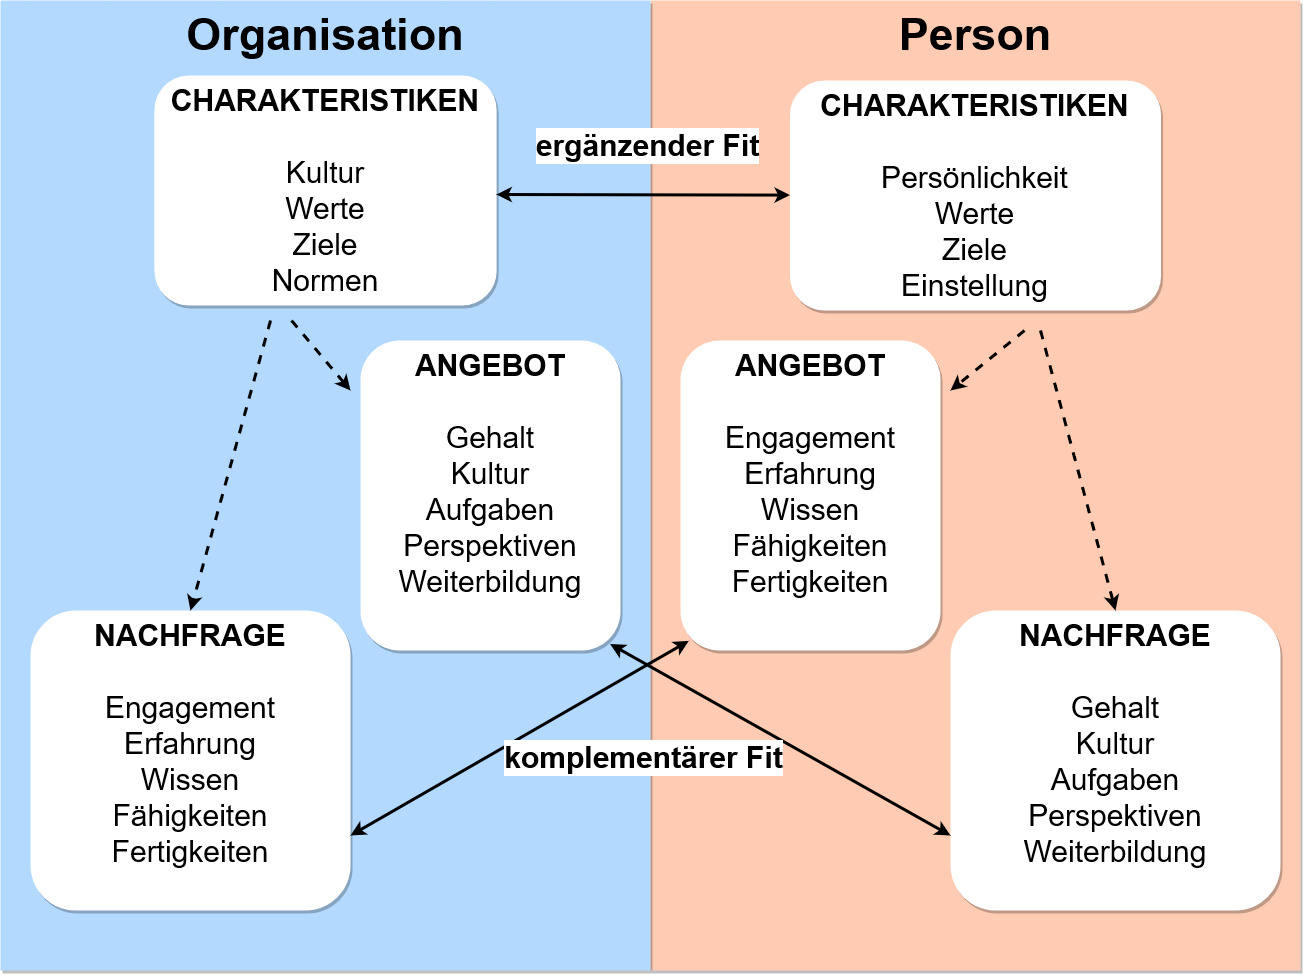
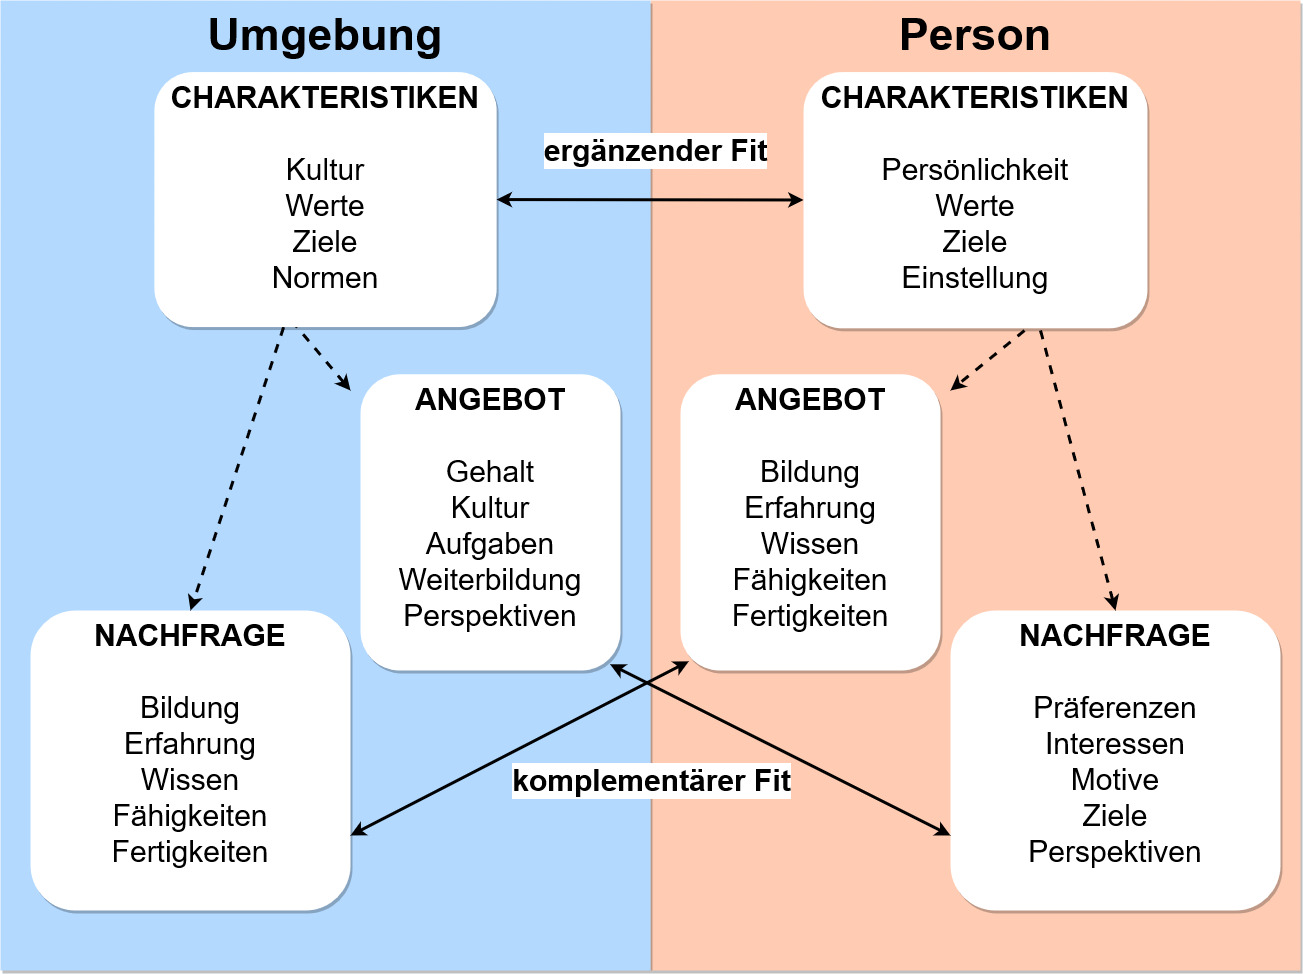
wip

diff --git a/chapters/personEnvironmentFit.tex b/chapters/personEnvironmentFit.tex
@@ -6,7 +6,7 @@
 \label{ch:personEnvironmentFit:einfuehrung}
 Der \acf{PEFit} \cite[S. 428]{dawis:2002} ist ein Konzept, welches häufig im Kontext der Berufs- und Organisationspsychologie Anwendung findet \cite[S. 2]{guan:2021}. In manchen Publikationen existiert die Theorie auch unter ähnlichen Bezeichnungen mit derselben Bedeutung wie Person-Environment Match \cite[S. 2]{player:2017}, -Korrespondenz \cite[S. 1]{eggerth:2008} oder -Kongruenz \cite[S. 1]{muchinsky:1987}. Es enthält stets drei zentrale Größen: Person, Umgebung (Environment) und Ergebnis \cite[S. 2f.]{livingstone:1997}.
 
-\textcite[S. 5]{edwards:2007} stellten fest, dass die Literatur unter der Person ein menschliches Individuum versteht. Umgebung und Ergebnis interpretierten verschiedene Publikation ihren Beobachtungen zu Folge dagegen als breite Terminologien. Diese werden je nach Forschungsdomäne genauer spezifiziert. Beispiele für Ergebnisse sind Zufriedenheit \cite[S. 1]{lashani:2021}, Wechselbereitschaft \cite[S. 1]{amarneh:2021}, Kreativität \cite[S. 1]{duan:2019}, Leistung \cite[S. 7f.]{elfenbein:2007} und  Berufswahl \cite[S. 1]{cable:1996}. Als Umgebung untersuchten verschiedene Publikationen unter anderem Unternehmen \cite[S. 1]{kristof:1996}, Gruppen \cite[S. 1]{werbel:2001} und Arbeitsplätze \cite[S. 1]{lu:2014}.
+\textcite[S. 5]{edwards:2007} stellten fest, dass die Literatur unter der Person ein menschliches Individuum versteht. Umgebung und Ergebnis interpretieren verschiedene Publikation ihren Beobachtungen zu Folge dagegen als breite Terminologien. Diese werden je nach Forschungsdomäne genauer spezifiziert. Beispiele für Ergebnisse sind Zufriedenheit \cite[S. 1]{lashani:2021}, Wechselbereitschaft \cite[S. 1]{amarneh:2021}, Kreativität \cite[S. 1]{duan:2019}, Leistung \cite[S. 7f.]{elfenbein:2007} und  Berufswahl \cite[S. 1]{cable:1996}. Als Umgebung untersuchten verschiedene Publikationen unter anderem Unternehmen \cite[S. 1]{kristof:1996}, Gruppen \cite[S. 1]{werbel:2001} und Arbeitsplätze \cite[S. 1]{lu:2014}.
 
 Die Wissenschaft geht davon aus, dass ein Ergebnis stets vom Zusammenspiel von Person und Umgebung abhängig ist und nicht durch eine der beiden Größen alleine bestimmt wird \cite[S. 1]{muchinsky:1987}. Wie in Abbildung \ref{fig:personEnvironmentFit:einfuehrung:abb1} verdeutlicht, ist der Fit somit selbst kein Ergebnis, sondern eine unabhängige Variable, welche zur Bestimmung eines untersuchten Resultates herangezogen wird \cite[S. 4f.]{edwards:1991}.
 
@@ -21,7 +21,7 @@ Der in Abbildung \ref{fig:personEnvironmentFit:einfuehrung:abb1} dargestellte \a
 
 \textcite[S. 6f.]{edwards:2007} unterschieden drei Ebenen, auf welchen ein Fit bestimmbar ist. Die Oberste bezeichneten sie als globale Ebene. Hier werden Person und Umgebung meist als Ganzes ohne weitere Untergliederungen miteinander vergleichen. Von der Domänen-Ebene sprachen \textcite[S. 7f.]{edwards:2007}, wenn eine Einteilung in mehrere sehr breite Bereiche vorgenommen wird, welche stellvertretend für Person bzw. Umgebung miteinander vergleichen werden. Domänen können den Autoren zu Folge beispielsweise Werte, Persönlichkeit oder Ziele sein. Findet die Untersuchung ausschließlich innerhalb einer Domäne statt, bezeichneten \textcite[S. 7f.]{edwards:2007} dies als Facetten-Ebene. Als Beispiel nannten sie die Bestimmung eines \acp{PEFit} hinsichtlich demographischer Ähnlichkeit anhand von Dimensionen wie Alter und Bildung.
 
-Wie die Kongruenz von Person und Umgebung berechnet wird, ist von der konkreten Art des Fits abhängig. \textcite[S. 1]{muchinsky:1987} unterschieden dabei zwischen ergänzendem und komplementären Fit.
+Wie die Kongruenz von Person und Umgebung berechnet wird, ist von der konkreten Art des Fits abhängig. \textcite[S. 1]{muchinsky:1987} unterschieden dabei zwischen ergänzendem und komplementärem Fit.
 
 \section{Ergänzender und komplementärer Fit}
 \label{ch:personEnvironmentFit:supplementaryUndComplementary}
@@ -36,14 +36,13 @@ Die komplementäre Kongruenz wird, wie in Abbildung \ref{fig:personEnvironmentFi
 \begin{figure}[h]
 	\centering
 	\includegraphics[width=1\textwidth]{gfx/supplementaryComplementaryFit.jpg}
-	\caption[Ergänzender und komplementärer \acs{PEFit}]{Ergänzender und komplementärer \acs{PEFit}\\
-		(Eigene Darstellung in Anlehnung an \cite[S. 4]{kristof:1996})}
+	\caption[Ergänzender und komplementärer \acs{PEFit}]{Ergänzender und komplementärer \acs{PEFit} (Eigene Darstellung in Anlehnung an \cite[S. 4]{kristof:1996})}
 	\label{fig:personEnvironmentFit:supplementaryUndComplementary:abb1}
 \end{figure}
 
-Unter der Nachfrage der Umgebung werden die in Abbildung \ref{fig:personEnvironmentFit:supplementaryUndComplementary:abb1} dargestellten Anforderungen an die Person zusammengefasst. Hierzu zählen beispielsweise Rollen- und Leistungserwartungen. Das entsprechende Angebot der Person sind ihre Fähigkeiten. Diese umfassen unter anderem Fertigkeiten, Wissen, Bildung und Arbeitserfahrung. Gleichen sich Nachfrage der Umgebung und Angebot der Person gegenseitig aus, entsteht der Anforderungen-Fähigkeiten Fit. Dieser resultiert in einer hohen Leistung und Effizienz von Individuum und Umgebung \cite[S. 3f.]{edwards:1991}\cite[S. 5]{edwards:1996}\cite[S. 4f.]{edwards:2007}\cite[S. 6]{su:2015}.
+Unter der in Abbildung \ref{fig:personEnvironmentFit:supplementaryUndComplementary:abb1} dargestellten Nachfrage der Umgebung werden Anforderungen an die Person zusammengefasst. Hierzu zählen beispielsweise Rollen- und Leistungserwartungen. Das entsprechende Angebot der Person umfasst entsprechend beispielsweise Fähigkeiten, Fertigkeiten, Wissen, Bildung und Arbeitserfahrung. Gleichen sich Nachfrage der Umgebung und Angebot der Person gegenseitig aus, entsteht der Anforderungen-Fähigkeiten Fit. Dieser resultiert in einer hohen Leistung und Effizienz von Individuum und Umgebung \cite[S. 3f.]{edwards:1991}\cite[S. 5]{edwards:1996}\cite[S. 4f.]{edwards:2007}\cite[S. 6]{su:2015}.
 
-Die Nachfrage der Person entspricht ihren psychologischen Bedürfnissen. Dazu zählen persönliche Präferenzen, Interessen, Motive und Ziele. Die entsprechenden Angebote der Umgebung umfassen Ressourcen und Belohnungen wie Gehalt und Mitbestimmungsrechte, welche die Bedürfnisse des Individuums befriedigen. Sind Nachfrage der Person und Angebote der Umgebung gleich stark ausgeprägt, wird dies in der Literatur als Bedürfnisse-Angebote Fit bezeichnet. Dieser resultiert in einem hohen Wohlbefinden des Mitarbeiters, welches sich beispielsweise in Zufriedenheit und verminderter Wechselbereitschaft äußert \cite[S. 2]{edwards:2004}\cite[S. 2f.]{edwards:1996}\cite[S. 4]{edwards:2008}\cite[S. 4f.]{edwards:2007}\cite[S. 6]{su:2015}.
+Die Nachfrage der Person in Abbildung \ref{fig:personEnvironmentFit:supplementaryUndComplementary:abb1} entspricht ihren psychologischen Bedürfnissen. Dazu zählen persönliche Präferenzen, Interessen, Motive und Ziele. Die entsprechenden Angebote der Umgebung umfasst Ressourcen und Belohnungen wie Gehalt und Mitbestimmungsrechte, welche die Bedürfnisse des Individuums befriedigen. Sind Nachfrage der Person und Angebote der Umgebung gleich stark ausgeprägt, wird dies in der Literatur als Bedürfnisse-Angebote Fit bezeichnet. Dieser resultiert in einem hohen Wohlbefinden des Mitarbeiters, welches sich beispielsweise in Zufriedenheit und verminderter Wechselbereitschaft äußert \cite[S. 2]{edwards:2004}\cite[S. 2f.]{edwards:1996}\cite[S. 4]{edwards:2008}\cite[S. 4f.]{edwards:2007}\cite[S. 6]{su:2015}.
 
 Laut \textcite[S. 9ff.]{workAdjustment:1964} führen unausgeglichene Nachfragen langfristig zu einem Wechsel des Arbeitsplatzes. Die Autoren betrachteten die aus unzureichend erfüllten Anforderungen des Unternehmens entstehende mangelnde Arbeitsleistung als Ursache für Kündigung oder Versetzung des Mitarbeiters seitens des Arbeitgebers. Die Unzufriedenheit, welche aus unzureichend erfüllten Bedürfnissen des Angestellten resultiert, bezeichneten die Wissenschaftler als einen Wechselgrund seitens des Mitarbeiters.
 

diff --git a/chapters/einleitung.tex b/chapters/einleitung.tex
@@ -17,9 +17,9 @@ Das Ziel der vorliegenden Master-Thesis besteht darin, die folgende Forschungsfr
 
 \forschungsfrage
 
-Um diese Frage zu beantworten, wird ein Experiment mit einer anschließenden Fallstudie durchgeführt. Dabei werden Mitarbeiter eines Beratungsunternehmens im IT-Bereich sowohl von einem unilateralen als auch von einem bilateralen Empfehlungsverfahren für verschiedene Projektpositionen vorgeschlagen. Anschließend wird evaluiert, ob die verantwortlichen Projektmanager von den empfohlenen Angestellten der bilateralen Anwendung eine höhere Arbeitsleistung erwarten als von den Vorschlägen des unilateralen Systems. Außerdem wird überprüft, ob die Mitarbeiter zufriedener mit ihrer Positionierung in den Vorschlägen der bilateralen Anwendung sind.
+Um diese Frage zu beantworten, wird ein Experiment mit einer anschließenden Fallstudie durchgeführt. Dabei werden Mitarbeiter eines Beratungsunternehmens im IT-Bereich sowohl von einem uni- als auch von einem bilateralen Empfehlungsverfahren für verschiedene Projektpositionen vorgeschlagen. Anschließend wird evaluiert, ob die verantwortlichen Projektmanager von den empfohlenen Angestellten der bilateralen Anwendung eine höhere Arbeitsleistung erwarten, als von den Vorschlägen des unilateralen Systems. Außerdem wird überprüft, ob die Mitarbeiter zufriedener mit ihrer Positionierung in den Vorschlägen der bilateralen Anwendung sind.
 
 \section{Gang der Arbeit}
 \label{sec:intro:gangDerArbeit}
-Um die Forschungsfrage der vorliegenden Master-Thesis zu beantworten, werden in den Kapiteln \ref{ch:personEnvironmentFit} und \ref{ch:empfehlungssysteme} zunächst die theoretischen Grundlagen bilateraler Empfehlungssysteme erläutert. Hierzu wird in Kapitel \ref{ch:personEnvironmentFit} das psychologische Konzept des \acp{PEFit} erörtert. Das folgende Kapitel \ref{ch:empfehlungssysteme} enthält einen Überblick über Implementierungsansätzen von Empfehlungssystemen. Dabei werden neben modell- und speicherbasierten Methoden auch hybride Verfahren erläutert. Darüber hinaus werden häufig auftretende Probleme bei der Entwicklung von Empfehlungssystemen geschildert und entsprechende Lösungsmöglichkeiten aufgezeigt. Daraufhin wird in Kapitel \ref{ch:verwandteArbeiten} der aktuelle Stand der Forschung behandelt. In diesem Kontext werden verwandte Arbeiten diskutiert und hinsichtlich der Forschungsfrage analysiert. Anschließend wird in Kapitel \ref{ch:methodik} die Methodik dieser Master-Thesis erläutert. In diesem Zusammenhang werden die implementierte Systemarchitektur und die Gestaltung der Fallstudie dargelegt. Die bei Durchführung der Studie gewonnenen Ergebnisse werden in Kapitel \ref{ch:ergebnisse} vorgestellt. Eine Diskussion der Erkenntnisse findet sich im darauffolgenden Kapitel \ref{ch:diskussion}. Dieses endet mit der Beantwortung der Forschungsfrage und daraus abgeleiteten Empfehlungen für zukünftige Forschungsarbeiten. Ein abschließendes Fazit folgt in Kapitel \ref{ch:fazit}.
+Um die Forschungsfrage der vorliegenden Master-Thesis zu beantworten, werden in den Kapiteln \ref{ch:personEnvironmentFit} und \ref{ch:empfehlungssysteme} zunächst die theoretischen Grundlagen bilateraler Empfehlungssysteme erläutert. Hierzu wird in Kapitel \ref{ch:personEnvironmentFit} das psychologische Konzept des \acp{PEFit} erörtert. Das folgende Kapitel \ref{ch:empfehlungssysteme} enthält einen Überblick über Implementierungsansätzen von Empfehlungssystemen. Dabei werden neben modell- und speicherbasierten Methoden auch hybride Verfahren erläutert. Darüber hinaus werden häufig auftretende Probleme bei der Entwicklung von Empfehlungssystemen geschildert und entsprechende Lösungsmöglichkeiten aufgezeigt. Im folgenden Kapitel \ref{ch:verwandteArbeiten} wird der aktuelle Stand der Forschung behandelt. In diesem Kontext werden verwandte Arbeiten diskutiert und hinsichtlich der Forschungsfrage analysiert. Anschließend wird in Kapitel \ref{ch:methodik} die Methodik der Master-Thesis erläutert. In diesem Zusammenhang werden die implementierte Systemarchitektur und die Gestaltung der Fallstudie dargelegt. Die bei Durchführung der Studie gewonnenen Ergebnisse werden in Kapitel \ref{ch:ergebnisse} vorgestellt. Eine Diskussion der Erkenntnisse findet sich im darauffolgenden Kapitel \ref{ch:diskussion}. Dieses endet mit der Beantwortung der Forschungsfrage und daraus abgeleiteten Empfehlungen für zukünftige Arbeiten. Ein abschließendes Fazit folgt in Kapitel \ref{ch:fazit}.
 \shorthandon{"}
